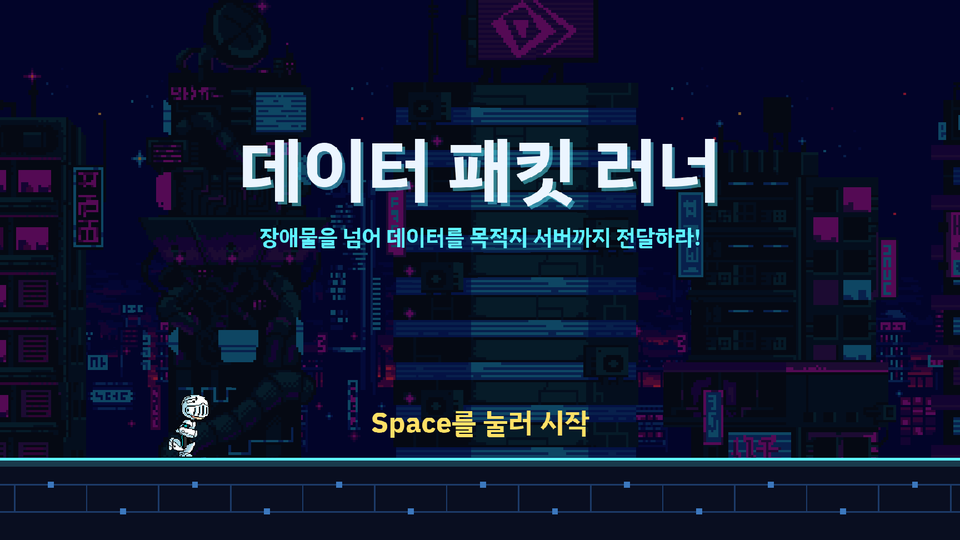
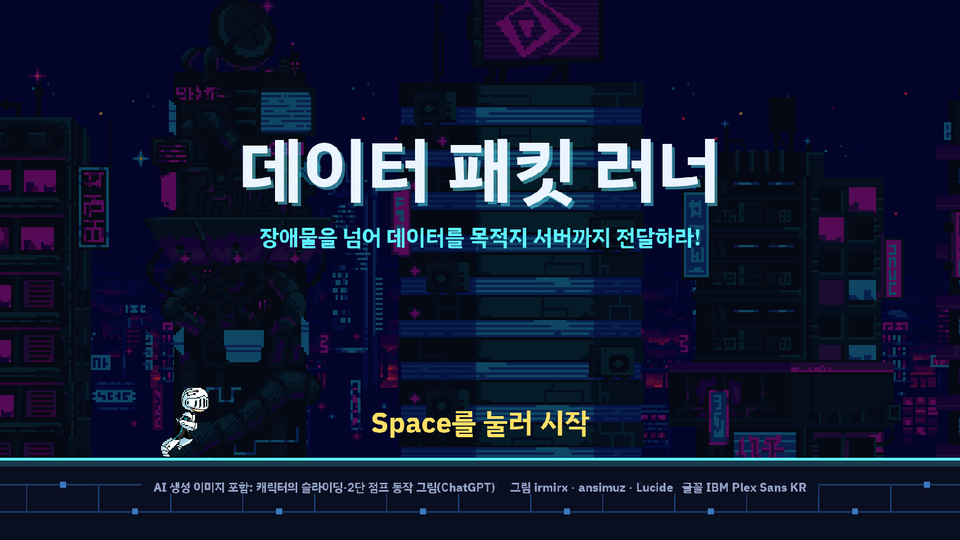
Add crash recovery with logs, block window close in booth mode, show AI credit
P2 crash recovery and logs
- GameWindow.dispatch_event catches errors from update, draw and key
  events, logs them (view, seed, time, score, traceback) and returns to
  the title. More than 5 errors within 30 s re-raise instead.
- main.py logs any error that escapes and exits with code 1;
  run_booth.bat restarts the game after an error (up to 10 times) and
  falls back to "py -3" when "python" is missing.
- logs/game.log (rotating, 1 MB x 5): startup PC/GPU/OpenGL info, game
  start seed, game end stats with average FPS and slow-frame count,
  ranking saves, idle aborts, ranking resets, ESC quit, errors.
- F12 in dev mode raises a test error to check recovery.

P3: in --booth mode Alt+F4 and the window close button are ignored and
a "hold ESC for 3 s" notice is shown.

P5: the title screen shows an "AI 생성 이미지 포함" credit line with
asset sources on a dark band.

Tests for CrashGuard and log setup; README, credits and plan 17.7.

Claude-Session: https://claude.ai/code/session_01UzXeewS9Zm5MkUt1EaZ45m

diff --git a/packet_runner/app.py b/packet_runner/app.py
@@ -1,10 +1,14 @@
 """게임 창. 어떤 창 크기에서도 1920×1080 화면을 비율을 유지해(레터박스) 보여 준다."""
 
+import platform
+import time
+
 import arcade
 
 from . import assets
 from . import config as C
-from .booth import HoldTimer
+from .booth import CrashGuard, HoldTimer
+from .logs import log
 from .ranking import Ranking
 
 
@@ -22,12 +26,15 @@ class GameWindow(arcade.Window):
     """booth=True(부스 운영 모드): 전체 화면, 마우스 커서 숨김, 개발용 키(F3·F11) 끔."""
 
     def __init__(self, fullscreen: bool = False, autoplay: bool = False, booth: bool = False):
+        self._ready = False             # 창 준비가 끝나기 전의 오류는 복구하지 않는다
         super().__init__(*_window_size(), C.TITLE, fullscreen=fullscreen or booth, resizable=True)
         self.autoplay = autoplay
         self.booth = booth
         self.debug = False
         self.focused = True             # 다른 창을 누르면 False → 게임을 멈추고 "화면을 클릭해 주세요"
         self.quit_hold = HoldTimer(C.QUIT_HOLD)
+        self.close_notice = 0.0         # 부스 모드에서 창 닫기를 막았을 때 안내를 보여 줄 남은 시간
+        self.crashes = CrashGuard(*C.CRASH_LIMIT)
         self.set_mouse_visible(not self.fullscreen)
         self.ranking = Ranking(C.RANKING_PATH)
         assets.load_font()
@@ -43,6 +50,11 @@ class GameWindow(arcade.Window):
         self.quit_notice = assets.text("", C.SCREEN_W / 2, 40, (255, 190, 120), 21, anchor_x="center",
                                        anchor_y="center")
         arcade.schedule(self.tick, 1 / 30)
+        log.info("창 %dx%d, 전체 화면=%s, 부스 모드=%s, 자동 플레이=%s | Python %s, Arcade %s, %s | %s (OpenGL %s)",
+                 self.width, self.height, self.fullscreen, booth, autoplay, platform.python_version(),
+                 arcade.version.VERSION, platform.platform(), self.ctx.info.RENDERER,
+                 ".".join(map(str, self.ctx.gl_version)))
+        self._ready = True
 
     def _fit_camera(self, width: int, height: int) -> None:
         scale = min(width / C.SCREEN_W, height / C.SCREEN_H)
@@ -67,14 +79,48 @@ class GameWindow(arcade.Window):
             self.set_mouse_visible(not self.fullscreen)
         elif symbol == arcade.key.F3:
             self.debug = not self.debug
+        elif symbol == arcade.key.F12:
+            raise RuntimeError("F12: 오류 복구 시험")     # 개발 모드에서 자동 복구가 되는지 확인하는 키
 
     def on_key_release(self, symbol: int, modifiers: int) -> None:
         if symbol == arcade.key.ESCAPE:
             self.quit_hold.release()
 
     def tick(self, dt: float) -> None:
+        self.close_notice = max(0.0, self.close_notice - dt)
         if self.quit_hold.update(dt):
+            log.info("ESC를 눌러 종료")
             self.close()
+
+    def on_close(self) -> None:
+        """Alt+F4·창 닫기 버튼. 부스 모드에서는 관람객이 끄지 못하도록 무시하고 ESC 3초로만 끈다."""
+        if self.booth:
+            log.info("창 닫기 요청을 무시함 (부스 모드)")
+            self.close_notice = 3.0
+            return
+        super().on_close()
+
+    # --- 오류 복구 ---
+    def dispatch_event(self, *args):
+        """화면 갱신·그리기·키 입력은 모두 여기를 지난다. 오류가 나면 기록하고 시작 화면으로 돌아간다."""
+        try:
+            return super().dispatch_event(*args)
+        except Exception:
+            if not self._ready:
+                raise
+            self._recover(args[0] if args else "?")
+
+    def _recover(self, event: str) -> None:
+        view = self.current_view
+        where = type(view).__name__ + (view.describe() if hasattr(view, "describe") else "")
+        log.exception("오류 발생 (%s, %s) — 시작 화면으로 복구", event, where)
+        if not self.crashes.record(time.monotonic()):
+            log.critical("짧은 시간에 오류가 되풀이되어 프로그램을 끝냄")
+            raise                       # main()이 기록하고 끝내면 run_booth.bat이 다시 시작한다
+        self.shake(0, 0)
+        self.quit_hold.release()
+        from .views.title_view import TitleView
+        self.show_view(TitleView())
 
     # --- 창 선택 상태 (키 입력을 받을 수 있는지) ---
     def on_activate(self) -> None:
@@ -99,4 +145,7 @@ class GameWindow(arcade.Window):
             self.focus_sub.draw()
         if self.quit_hold.active:
             self.quit_notice.text = f"종료하려면 ESC를 {self.quit_hold.remaining:.0f}초 더 누르고 있으세요"
+            self.quit_notice.draw()
+        elif self.close_notice > 0:
+            self.quit_notice.text = "종료하려면 ESC를 3초 동안 누르고 있으세요"
             self.quit_notice.draw()

diff --git a/packet_runner/views/game_view.py b/packet_runner/views/game_view.py
@@ -14,6 +14,7 @@ from ..background import Parallax, draw_ground
 from ..booth import IdleWatch
 from ..effects import Effects
 from ..hud import Hud
+from ..logs import log
 from ..player import PlayerBody, PlayerSprite, Pose
 from ..powerups import PowerUps
 from ..scoring import ScoreBoard
@@ -58,6 +59,10 @@ class GameView(arcade.View):
         self.score = ScoreBoard()
         self.powerups = PowerUps()
         self.autopilot = Autopilot() if self.window.autoplay else None
+        self.frames = 0                 # 실제 프레임 수·시간 (부스 PC 성능 기록용)
+        self.wall_time = 0.0
+        self.slow_frames = 0
+        log.info("게임 시작 seed=%d", self.world.picker.seed)
 
         self.t = 0.0
         self.scroll = 0.0
@@ -111,9 +116,16 @@ class GameView(arcade.View):
                                 "스팸 미사일! 오른쪽 끝의 ! 경고를 보고 점프·슬라이딩으로 피해요"][self.zone]
         self.zone_banner = 2.5
 
+    def describe(self) -> str:
+        """오류 기록에 남길 상황 (같은 맵을 다시 만들어 볼 수 있도록 시드 포함)."""
+        return f" seed={self.world.picker.seed} t={self.t:.1f} 점수={self.score.score}"
+
     def on_update(self, delta_time: float) -> None:
         if self.window.paused:          # 다른 창이 선택되어 키를 받을 수 없으면 멈춘다
             return
+        self.frames += 1
+        self.wall_time += delta_time
+        self.slow_frames += delta_time > 1 / 30
         dt = min(delta_time, 1 / 30)
         if self.arriving:
             self._update_arrival(dt)
@@ -121,6 +133,7 @@ class GameView(arcade.View):
         if not self.autopilot:
             self.idle.update(dt)
             if self.idle.expired:
+                log.info("자리 비움으로 중단%s", self.describe())
                 from .title_view import TitleView
                 self.window.show_view(TitleView())
                 return
@@ -304,6 +317,11 @@ class GameView(arcade.View):
             self.effects.burst(self.server.center_x, self.server.center_y, C.PURPLE, 3, 300, 3)
         self.effects.update(dt, 0)
         if self.arrival_t >= C.ARRIVAL_TIME:
+            s = self.score
+            fps = self.frames / self.wall_time if self.wall_time > 0 else 0.0
+            log.info("게임 끝 seed=%d 점수=%d 충돌=%d 조각=%d 피싱=%d/%d 차단=%d 글자=%d 보너스=%s | 평균 %.1f FPS, "
+                     "느린 프레임 %d개", self.world.picker.seed, s.score, s.collisions, s.fragments, s.phished,
+                     s.phished + s.phish_avoided, s.blocked, s.letters, s.bonus, fps, self.slow_frames)
             from .result_view import ResultView
             self.window.show_view(ResultView(self.score, self.world.picker.seed))
 

diff --git a/packet_runner/views/title_view.py b/packet_runner/views/title_view.py
@@ -8,8 +8,13 @@ from .. import assets
 from .. import config as C
 from ..background import Parallax, draw_ground
 from ..booth import HoldTimer
+from ..logs import log
 from ..player import PlayerBody, PlayerSprite
 from ..ranking_board import RankingBoard
+
+
+CREDIT = ("AI 생성 이미지 포함: 캐릭터의 슬라이딩·2단 점프 동작 그림(ChatGPT)     "
+          "그림 irmirx · ansimuz · Lucide   글꼴 IBM Plex Sans KR")
 
 
 class TitleView(arcade.View):
@@ -29,6 +34,8 @@ class TitleView(arcade.View):
         self.subtitle = assets.text("장애물을 넘어 데이터를 목적지 서버까지 전달하라!", cx, 590, C.CYAN, 33,
                                     anchor_x="center")
         self.start = assets.text("Space를 눌러 시작", cx, 215, C.YELLOW, 42, anchor_x="center")
+        # 학교 생성형 AI 사용 지침: AI 생성 이미지가 들어 있음을 밝힌다 (출처는 assets/CREDITS.md)
+        self.credit = assets.text(CREDIT, cx, 108, (150, 165, 200), 18, anchor_x="center", anchor_y="center")
 
         # 오늘의 순위표 (기록이 하나라도 있으면 안내 화면과 번갈아 보여 준다)
         self.board = RankingBoard(top=960)
@@ -72,6 +79,7 @@ class TitleView(arcade.View):
         self.t += delta_time
         self.notice_time = max(0.0, self.notice_time - delta_time)
         if self.reset_hold.update(delta_time):
+            log.info("운영자가 오늘 순위를 초기화함")
             self.window.ranking.reset_today()
             self._refresh_board()
             self.notice.text = "오늘 순위를 초기화했습니다 (이전 파일은 data 폴더에 백업)"
@@ -98,6 +106,9 @@ class TitleView(arcade.View):
                 self.subtitle.draw()
             if self.ready and math.sin(self.t * 5) > -0.3:
                 self.start.draw()
+            half = self.credit.content_width / 2 + 24      # 바닥 회로 무늬 위에서도 읽히도록 어두운 띠
+            arcade.draw_lrbt_rectangle_filled(C.SCREEN_W / 2 - half, C.SCREEN_W / 2 + half, 92, 124, (*C.GROUND_DARK, 235))
+            self.credit.draw()
             if self.notice_time > 0:
                 self.notice.draw()
             self.window.draw_overlay()

diff --git a/main.py b/main.py
@@ -1,10 +1,14 @@
 """데이터 패킷 러너 실행: python main.py [--booth | --fullscreen] [--autoplay]"""
 
 import argparse
+import sys
 
 import arcade
 
+from packet_runner import config as C
+from packet_runner import logs
 from packet_runner.app import GameWindow
+from packet_runner.logs import log
 from packet_runner.views.title_view import TitleView
 
 
@@ -16,9 +20,17 @@ def main() -> None:
     parser.add_argument("--autoplay", action="store_true", help="자동 플레이(테스트·데모용)")
     args = parser.parse_args()
 
-    window = GameWindow(fullscreen=args.fullscreen, autoplay=args.autoplay, booth=args.booth)
-    window.show_view(TitleView())
-    arcade.run()
+    logs.setup(C.LOG_PATH)
+    log.info("===== 시작 %s", " ".join(sys.argv[1:]))
+    try:
+        window = GameWindow(fullscreen=args.fullscreen, autoplay=args.autoplay, booth=args.booth)
+        window.show_view(TitleView())
+        arcade.run()
+    except Exception:
+        # 화면 안에서 복구하지 못한 오류: 기록하고 오류 코드로 끝낸다 → run_booth.bat이 다시 시작
+        log.exception("복구하지 못한 오류로 종료")
+        sys.exit(1)
+    log.info("===== 정상 종료")
 
 
 if __name__ == "__main__":

diff --git a/packet_runner/views/result_view.py b/packet_runner/views/result_view.py
@@ -1,12 +1,11 @@
 """결과 화면: 점수 요약 → (오늘 TOP 10이면) 이름 입력 → 오늘의 순위표 → 시작 화면으로 자동 복귀."""
 
-import sys
-
 import arcade
 
 from .. import assets
 from .. import config as C
 from ..background import Parallax, draw_ground
+from ..logs import log
 from ..ranking import ANONYMOUS, finalize_name, is_allowed_name
 from ..ranking_board import RankingBoard
 from ..scoring import ScoreBoard, grade_for
@@ -87,8 +86,10 @@ class ResultView(arcade.View):
         try:
             rank = self.ranking.add(record)
         except OSError as error:      # 저장에 실패해도 게임은 계속 (화면에는 그대로 보여 준다)
-            print(f"랭킹 저장 실패: {error}", file=sys.stderr)
+            log.warning("랭킹 저장 실패: %s", error)
             rank = self.rank
+        else:
+            log.info("기록 저장: 오늘 %d위 %d점 (%s)", rank, self.score.score, "이름 입력" if name != ANONYMOUS else "익명")
         highlight = rank - 1 if rank <= C.RANKING_SIZE else None
         self.board.set_data(self.ranking.top_today(), highlight, self.ranking.best_all_time())
         if highlight is None:

diff --git a/packet_runner/logs.py b/packet_runner/logs.py
@@ -1,0 +1,27 @@
+"""로그 파일: 부스에서 생긴 오류와 판마다의 기록을 logs/game.log에 남긴다 (1MB씩 최대 5개 보관)."""
+
+import logging
+import logging.handlers
+from pathlib import Path
+
+log = logging.getLogger("packet_runner")
+
+
+def setup(path: Path) -> None:
+    """파일 로그를 켠다. 폴더에 쓸 수 없으면 화면(터미널)에만 남기고 게임은 계속한다."""
+    for handler in list(log.handlers):
+        log.removeHandler(handler)
+        handler.close()
+    log.setLevel(logging.INFO)
+    log.propagate = False
+    console = logging.StreamHandler()
+    console.setLevel(logging.WARNING)
+    log.addHandler(console)
+    try:
+        path.parent.mkdir(parents=True, exist_ok=True)
+        handler = logging.handlers.RotatingFileHandler(path, maxBytes=1_000_000, backupCount=5, encoding="utf-8")
+    except OSError as error:
+        log.warning("로그 파일을 열 수 없음 (%s) — 화면에만 기록", error)
+        return
+    handler.setFormatter(logging.Formatter("%(asctime)s %(levelname)s %(message)s", "%Y-%m-%d %H:%M:%S"))
+    log.addHandler(handler)

diff --git a/tests/test_logs.py b/tests/test_logs.py
@@ -1,0 +1,23 @@
+import logging
+
+from packet_runner import logs
+from packet_runner.logs import log
+
+
+def test_setup_writes_to_file_and_can_be_repeated(tmp_path):
+    path = tmp_path / "logs" / "game.log"
+    logs.setup(path)
+    logs.setup(path)                        # 두 번 불러도 같은 줄이 두 번 쓰이지 않는다
+    log.info("게임 시작 seed=%d", 42)
+    for handler in log.handlers:
+        handler.flush()
+    lines = path.read_text(encoding="utf-8").splitlines()
+    assert len(lines) == 1 and lines[0].endswith("INFO 게임 시작 seed=42")
+
+
+def test_unwritable_folder_falls_back_to_console(tmp_path):
+    blocker = tmp_path / "file"
+    blocker.write_text("x")
+    logs.setup(blocker / "logs" / "game.log")   # 파일 아래에 폴더를 만들 수 없음
+    assert all(not isinstance(h, logging.FileHandler) for h in log.handlers)
+    log.info("그래도 오류 없이 계속")

diff --git a/packet_runner/booth.py b/packet_runner/booth.py
@@ -33,6 +33,21 @@ class HoldTimer:
         return max(0.0, self.need - (self.held or 0.0))
 
 
+class CrashGuard:
+    """오류가 나면 시작 화면으로 복구하되, 짧은 시간에 되풀이되면 더 버티지 않고 프로그램을 끝낸다
+    (같은 오류로 끝없이 돌지 않도록 — 부스 실행 파일 run_booth.bat이 프로그램을 새로 시작한다)."""
+
+    def __init__(self, limit: int = 5, window: float = 30.0):
+        self.limit = limit
+        self.window = window
+        self.times: list[float] = []
+
+    def record(self, now: float) -> bool:
+        """오류 시각을 기록한다. 아직 복구해도 되면 True."""
+        self.times = [t for t in self.times if now - t < self.window] + [now]
+        return len(self.times) <= self.limit
+
+
 class IdleWatch:
     """게임 중 자리 비움: warn초 동안 입력이 없으면 경고, grace초 더 없으면 끝."""
 

diff --git a/tests/test_booth.py b/tests/test_booth.py
@@ -1,4 +1,4 @@
-from packet_runner.booth import HoldTimer, IdleWatch
+from packet_runner.booth import CrashGuard, HoldTimer, IdleWatch
 
 
 def test_hold_fires_once_after_full_time():
@@ -30,3 +30,10 @@ def test_idle_warns_then_expires_and_input_resets():
     assert not idle.warning and idle.left == 25.0
     idle.update(25.0)
     assert idle.expired and not idle.warning
+
+
+def test_crash_guard_allows_a_few_then_stops():
+    guard = CrashGuard(limit=3, window=30.0)
+    assert guard.record(0.0) and guard.record(1.0) and guard.record(2.0)
+    assert not guard.record(3.0)            # 30초 안에 네 번째
+    assert guard.record(40.0)               # 오래된 오류는 잊는다 (40초 시점엔 하나뿐)

diff --git a/구현계획.md b/구현계획.md
@@ -215,7 +215,7 @@ TitleView ──(키 입력)──▶ TutorialView(20s) ──▶ GameView(180s)
 - **무인 반복 운영:** 어느 화면에서든 일정 시간 무입력이면 TitleView로 복귀. 결과 화면은 40초 후 자동 복귀.
 - **키 입력 제한:** ESC 종료는 운영자용(예: ESC 3초 길게 누르기 또는 `F10`)으로만 허용하고 안내 화면에는 표시하지 않는다.
 - **실행 편의:** `python main.py` 한 줄로 실행, `--windowed` / `--fullscreen` 옵션, 부스 PC용 실행 스크립트(`run_booth.bat` 또는 `.sh`) 제공.
-- **오류 대응:** 예외 발생 시 로그 파일에 기록하고 TitleView로 복귀(관람객 앞에서 크래시 화면이 보이지 않게).
+- **오류 대응:** 예외 발생 시 로그 파일에 기록하고 TitleView로 복귀(관람객 앞에서 크래시 화면이 보이지 않게). — **구현 완료(§17.7)**
 - **성능 목표:** 일반 사무용 PC에서 60 FPS 유지. 시간 기반 이동(`delta_time`)으로 프레임 변동에도 속도 일정.
 
 ---
@@ -598,11 +598,11 @@ TitleView ──(키 입력)──▶ TutorialView(20s) ──▶ GameView(180s)
 
 | # | 항목 | 현재 상태와 이유 | 할 일 | 구분 | 작업량 |
 |---|---|---|---|---|---|
-| P1 | **부스 PC 실기 점검** | 지금까지는 개발용 리눅스에서 화면 없이만 시험했다. 부스 PC(Windows)에서 한 번도 돌려 보지 않았다 | Python 3.10 이상·`arcade==3.3.3` 설치(학교망이 막혀 있으면 미리 받아 둔 설치 파일로 설치하거나 실행 파일로 묶기), Arcade 3이 요구하는 OpenGL 3.3 지원 확인, `run_booth.bat` 실행(`python` 명령이 없거나 Microsoft Store로 연결되면 `py -3`로 바꾸기), 전체 화면·해상도·글꼴·60 FPS 확인. FPS를 보려면 F3 화면에 FPS 표시를 추가한다 | 현장 + 코드(FPS 표시) | 반나절 |
-| P2 | **오류 자동 복구와 로그** | §8에 계획만 있고 구현하지 않았다. 지금은 예상하지 못한 오류가 나면 창이 꺼지고 부스가 멈춘다. 랭킹 저장 실패도 화면에만 잠깐 찍히고 남지 않는다 | 오류가 나면 `logs/`에 기록하고 시작 화면으로 돌아가게 한다. 판마다 난수 시드·점수·충돌 수도 로그로 남겨 문제 장면을 다시 재현할 수 있게 한다 | 코드 | 작음 |
-| P3 | **창 닫기 막기** | ESC는 3초를 눌러야 꺼지지만, Alt+F4나 창 닫기 버튼은 바로 꺼진다 | `--booth`에서는 창 닫기 요청을 무시하고 ESC 3초로만 종료 | 코드 | 작음 |
+| P1 | **부스 PC 실기 점검** | 지금까지는 개발용 리눅스에서 화면 없이만 시험했다. 부스 PC(Windows)에서 한 번도 돌려 보지 않았다 | Python 3.10 이상·`arcade==3.3.3` 설치(학교망이 막혀 있으면 미리 받아 둔 설치 파일로 설치하거나 실행 파일로 묶기), Arcade 3이 요구하는 OpenGL 3.3 지원 확인, `run_booth.bat` 실행(`python` 명령이 없거나 Microsoft Store로 연결되면 `py -3`로 바꾸기), 전체 화면·해상도·글꼴·60 FPS 확인. FPS는 `logs/game.log`의 '게임 끝' 줄(평균 FPS·느린 프레임 수)에서 확인한다. F12(개발 모드)로 오류 자동 복구도 시험한다 | 현장 | 반나절 |
+| P2 | **오류 자동 복구와 로그** ✅ | §8에 계획만 있고 구현하지 않았다. 지금은 예상하지 못한 오류가 나면 창이 꺼지고 부스가 멈춘다. 랭킹 저장 실패도 화면에만 잠깐 찍히고 남지 않는다 | **구현 완료(§17.7).** 오류가 나면 `logs/`에 기록하고 시작 화면으로 돌아가게 한다. 판마다 난수 시드·점수·충돌 수도 로그로 남겨 문제 장면을 다시 재현할 수 있게 한다 | 코드 | 작음 |
+| P3 | **창 닫기 막기** ✅ | ESC는 3초를 눌러야 꺼지지만, Alt+F4나 창 닫기 버튼은 바로 꺼진다 | **구현 완료(§17.7).** `--booth`에서는 창 닫기 요청을 무시하고 ESC 3초로만 종료 | 코드 | 작음 |
 | P4 | **Windows 설정** | 절전·화면 보호기·업데이트 알림이 뜨면 게임 창 선택이 풀린다(게임은 멈추고 "화면을 클릭해 주세요"가 뜨지만 관람객은 마우스가 없다). Shift를 5번 누르면 고정 키 창이 뜨고, Windows 키를 누르면 시작 메뉴로 빠진다 | 절전·화면 보호기·자동 업데이트·알림 끄기, 고정 키 단축키 끄기, Windows 키는 덮개를 씌우거나 끄기 | 현장 | 1시간 |
-| P5 | **AI 생성 이미지 표기** | 슬라이딩·공중제비 그림이 AI 생성 이미지다. CREDITS에 "부스 안내판이나 결과 화면 크레딧에 밝힌다"고 적었지만 아직 화면에 없다 | 시작 화면 아래나 결과 화면에 "AI 생성 이미지 포함" 크레딧 한 줄을 넣고, 안내판에도 적는다 | 코드 + 현장 | 작음 |
+| P5 | **AI 생성 이미지 표기** ✅ | 슬라이딩·공중제비 그림이 AI 생성 이미지다. CREDITS에 "부스 안내판이나 결과 화면 크레딧에 밝힌다"고 적었지만 아직 화면에 없다 | **구현 완료(§17.7).** 시작 화면 아래나 결과 화면에 "AI 생성 이미지 포함" 크레딧 한 줄을 넣고, 안내판에도 적는다 | 코드 + 현장 | 작음 |
 | P6 | **등급 기준 다시 정하기** | S 7,500 / A 5,500 / B 3,500은 실수 없는 자동 플레이(8,100~8,800점)를 기준으로 잡은 임시값이다. 보너스 타임이 들어가 점수 분포도 달라졌다 | 리허설 점수를 모아 다시 정한다(예: 참가자 상위 10~15%가 S) | 현장 → 코드 | 작음 |
 | P7 | **금칙어 목록 검토** | 영문 욕설 약어와 한국어 로마자 약어 일부만 들어 있다 | 선생님과 함께 목록을 검토하고 보탠다(`config.py`의 `BANNED_NAMES`) | 현장 → 코드 | 작음 |
 | P8 | **최종 버전 고정과 백업** | 모든 작업이 작업 브랜치(`claude/inspiring-faraday-jkjri2`)에만 있고 `main`에는 합치지 않았다 | 작업 브랜치를 `main`에 합치고 태그(예: `booth-v1`)를 붙인다. 부스 PC 폴더와 USB에 사본을 둔다. 행사 1주 전부터는 기능 추가를 멈추고 버그만 고친다 | 코드 + 현장 | 작음 |
@@ -654,4 +654,14 @@ TitleView ──(키 입력)──▶ TutorialView(20s) ──▶ GameView(180s)
 | D-7 | 1차 리허설(§17.4) → P6 등급 조정, P7 금칙어 확정, 난이도 조정 |
 | D-3 | 기능 동결, P8 `main` 병합·태그·USB 백업, P9 오래 켜 두는 시험, P4 Windows 설정 |
 | D-1 | 부스 설치, 최종 점검, 안내판·운영자 메모 비치 |
+
+### 17.7 P2·P3·P5 구현 결과
+
+| 항목 | 구현 내용 |
+|---|---|
+| P2 오류 자동 복구 | 화면 갱신·그리기·키 입력은 모두 창의 `dispatch_event`를 지난다. 여기서 오류를 잡아 `logs/game.log`에 내용(어느 화면, 게임 중이면 시드·시간·점수)과 함께 남기고 시작 화면으로 돌아간다. 30초 안에 오류가 5번을 넘게 되풀이되면(`CRASH_LIMIT`) 더 버티지 않고 프로그램을 끝낸다. 그래도 빠져나온 오류는 `main.py`가 기록하고 오류 코드 1로 끝낸다. `run_booth.bat`은 오류 코드로 끝나면 2초 뒤 다시 켜고(최대 10번, 넘으면 멈추고 로그를 보라고 안내), `python` 명령이 없으면 `py -3`로 실행한다. 개발 모드에서는 F12로 일부러 오류를 내 복구를 시험할 수 있다 |
+| P2 기록 파일 | `logs/game.log`(1MB씩 최대 5개, git에는 올리지 않음): 시작할 때 창 크기·전체 화면·Python·Arcade·OS·그래픽 카드·OpenGL 버전, 판마다 시작 시드와 끝 기록(점수·충돌·조각·피싱 걸림/전체·차단·글자·보너스·**평균 FPS·33ms 넘는 느린 프레임 수**), 순위 저장(오늘 몇 위, 이름 입력/익명), 자리 비움 중단, 운영자 순위 초기화, ESC 종료, 오류 전문. 로그 폴더에 쓸 수 없으면 화면(터미널)에만 남기고 게임은 계속한다 |
+| P3 창 닫기 막기 | `--booth`에서는 Alt+F4·창 닫기 버튼(`on_close`)을 무시하고 화면 아래에 "종료하려면 ESC를 3초 동안 누르고 있으세요"를 3초 보여 준다. 개발 모드에서는 그대로 닫힌다. Windows를 끌 때도 게임이 닫기를 거부하므로, 운영자는 먼저 ESC 3초로 게임을 끈다 |
+| P5 AI 생성 이미지 표기 | 시작 화면 아래(바닥 위 어두운 띠)에 "AI 생성 이미지 포함: 캐릭터의 슬라이딩·2단 점프 동작 그림(ChatGPT) / 그림 irmirx · ansimuz · Lucide / 글꼴 IBM Plex Sans KR"을 항상 보여 준다(순위표가 나올 때도). 안내판에도 같은 내용을 적는다 |
+| 검증 | 단위 테스트 3개 추가(오류 반복 판정, 기록 파일 쓰기·두 번 설정·쓸 수 없는 폴더). 실제 게임 루프와 같은 조건에서 12개 시나리오 확인: 게임 중 갱신 오류·그리기 오류·F12 → 시작 화면 복구와 기록(시드 포함), 6번째 반복 오류는 밖으로 던짐, 부스 모드 창 닫기 무시·안내 표시, 개발 모드 창 닫기 허용, 판 끝 기록에 FPS, 순위 저장 기록. `main.py`는 시작 화면을 만들지 못하는 오류에서 기록 후 오류 코드 1로 끝나는 것을 확인 |
 
